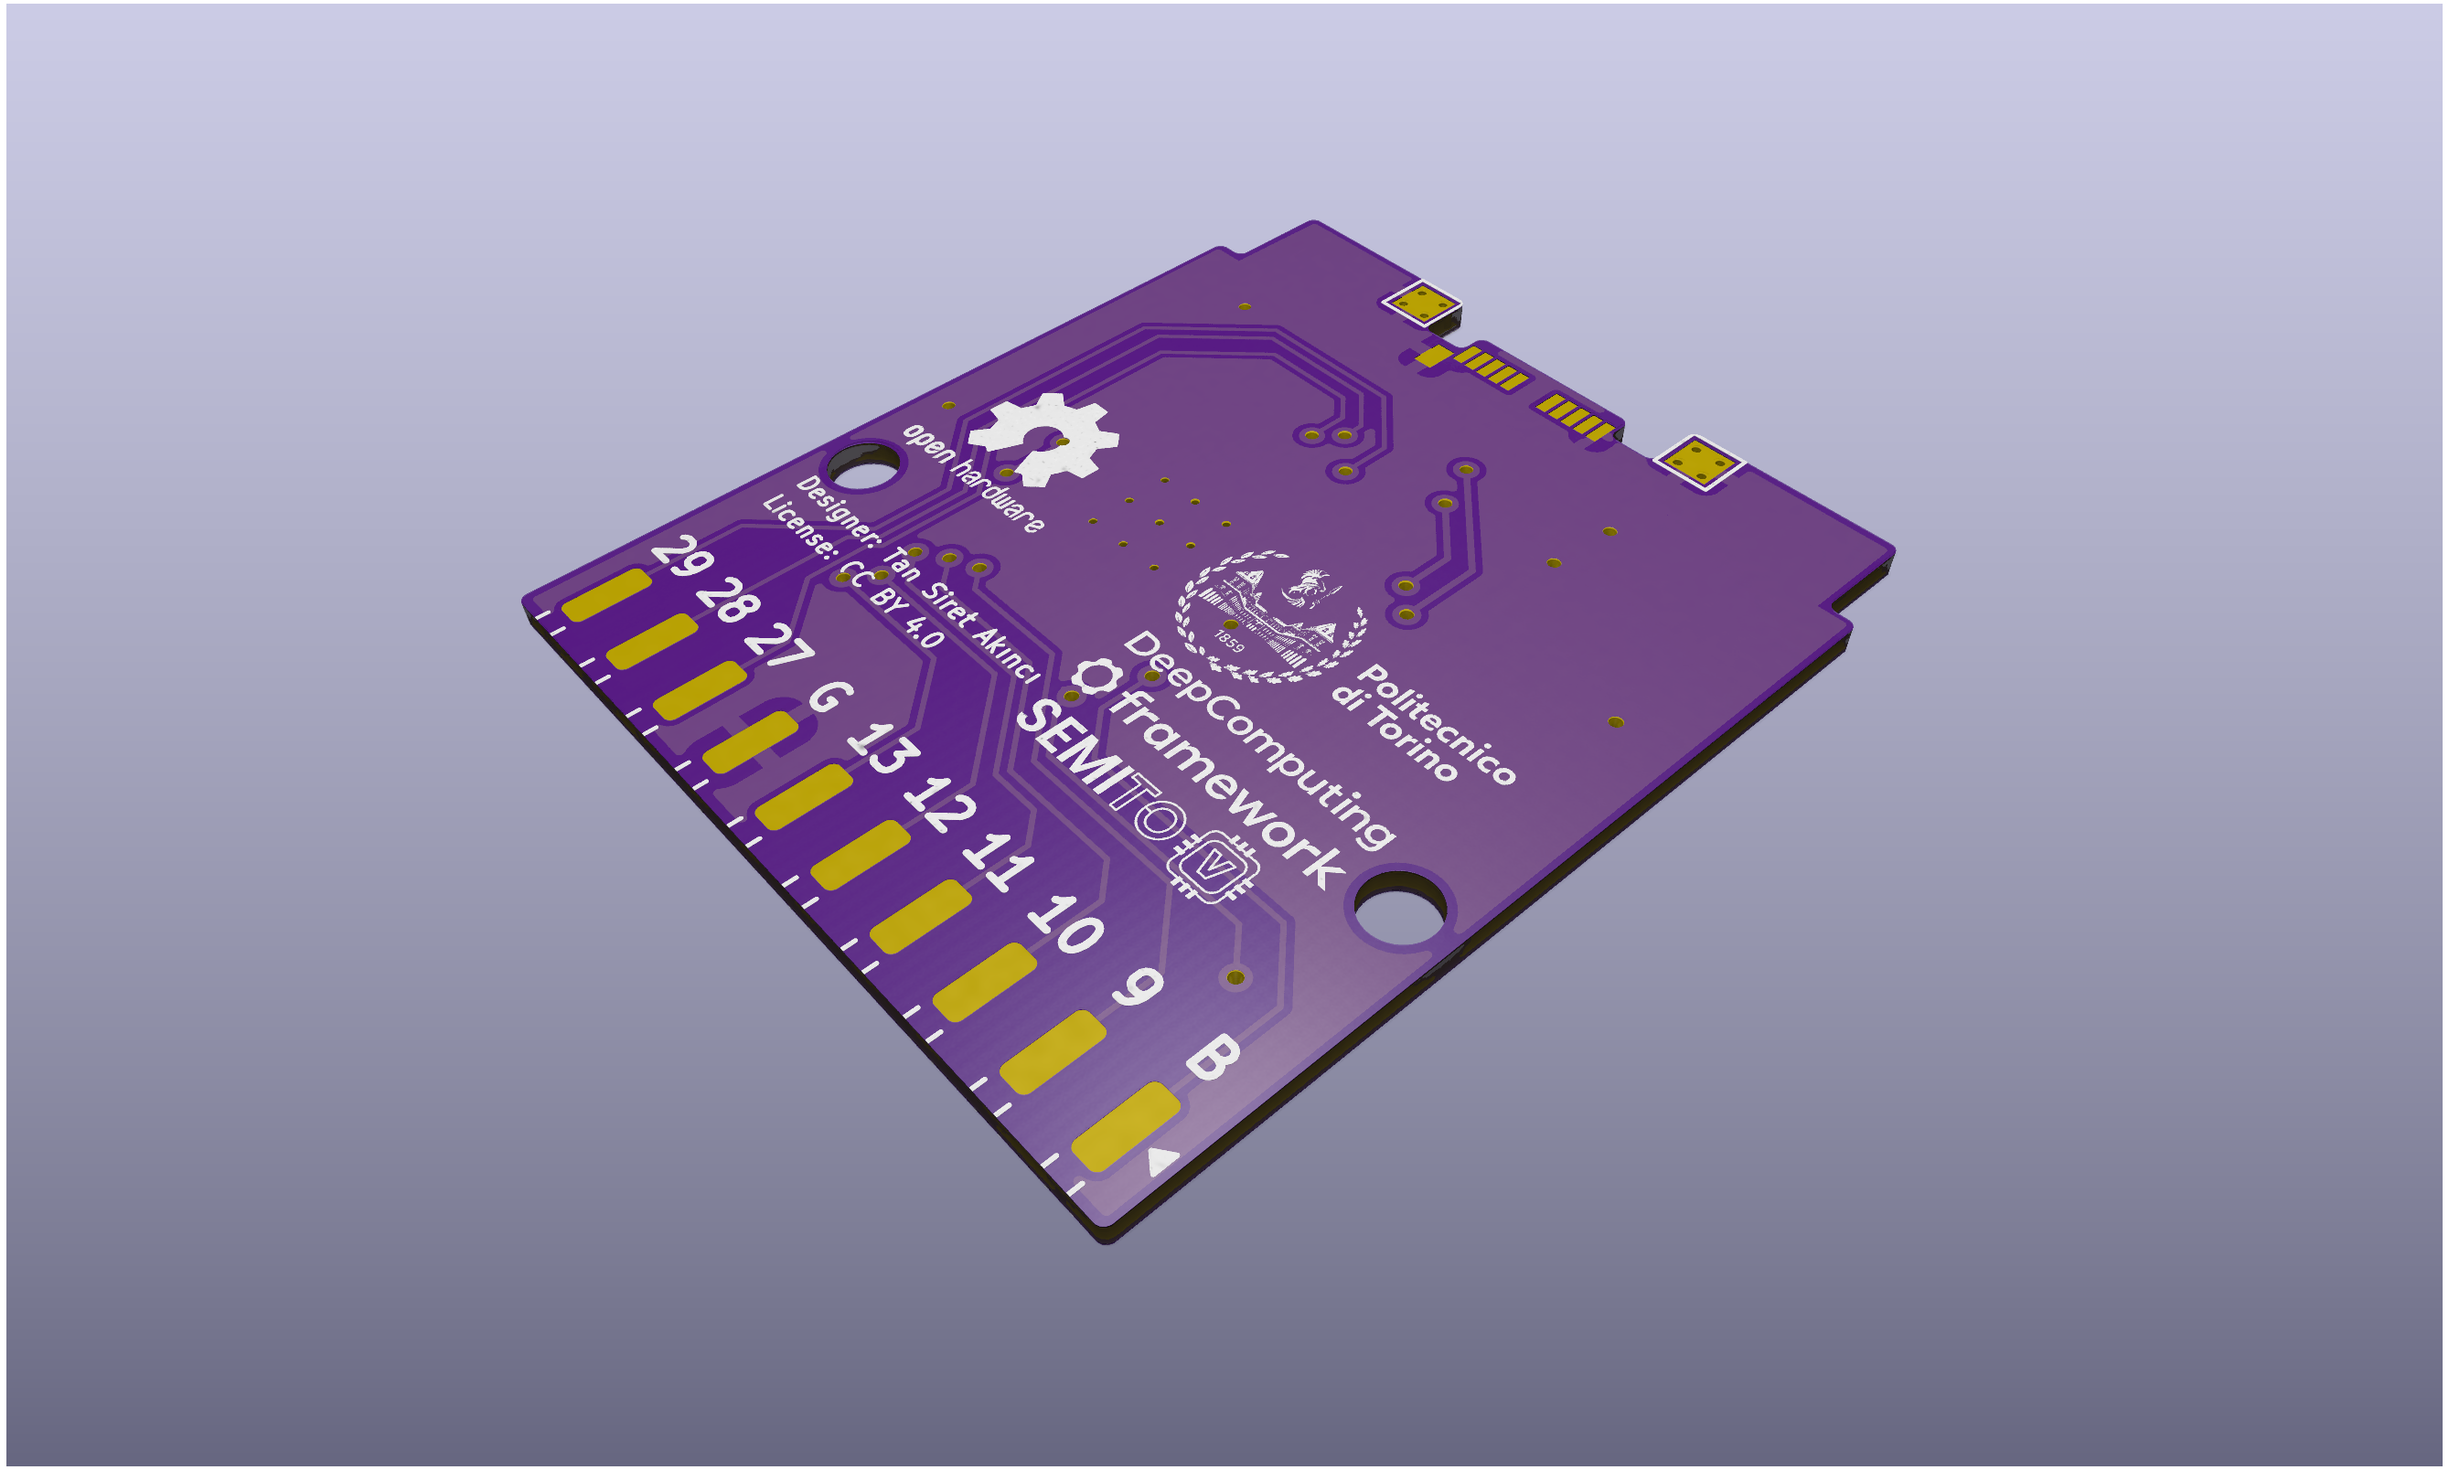
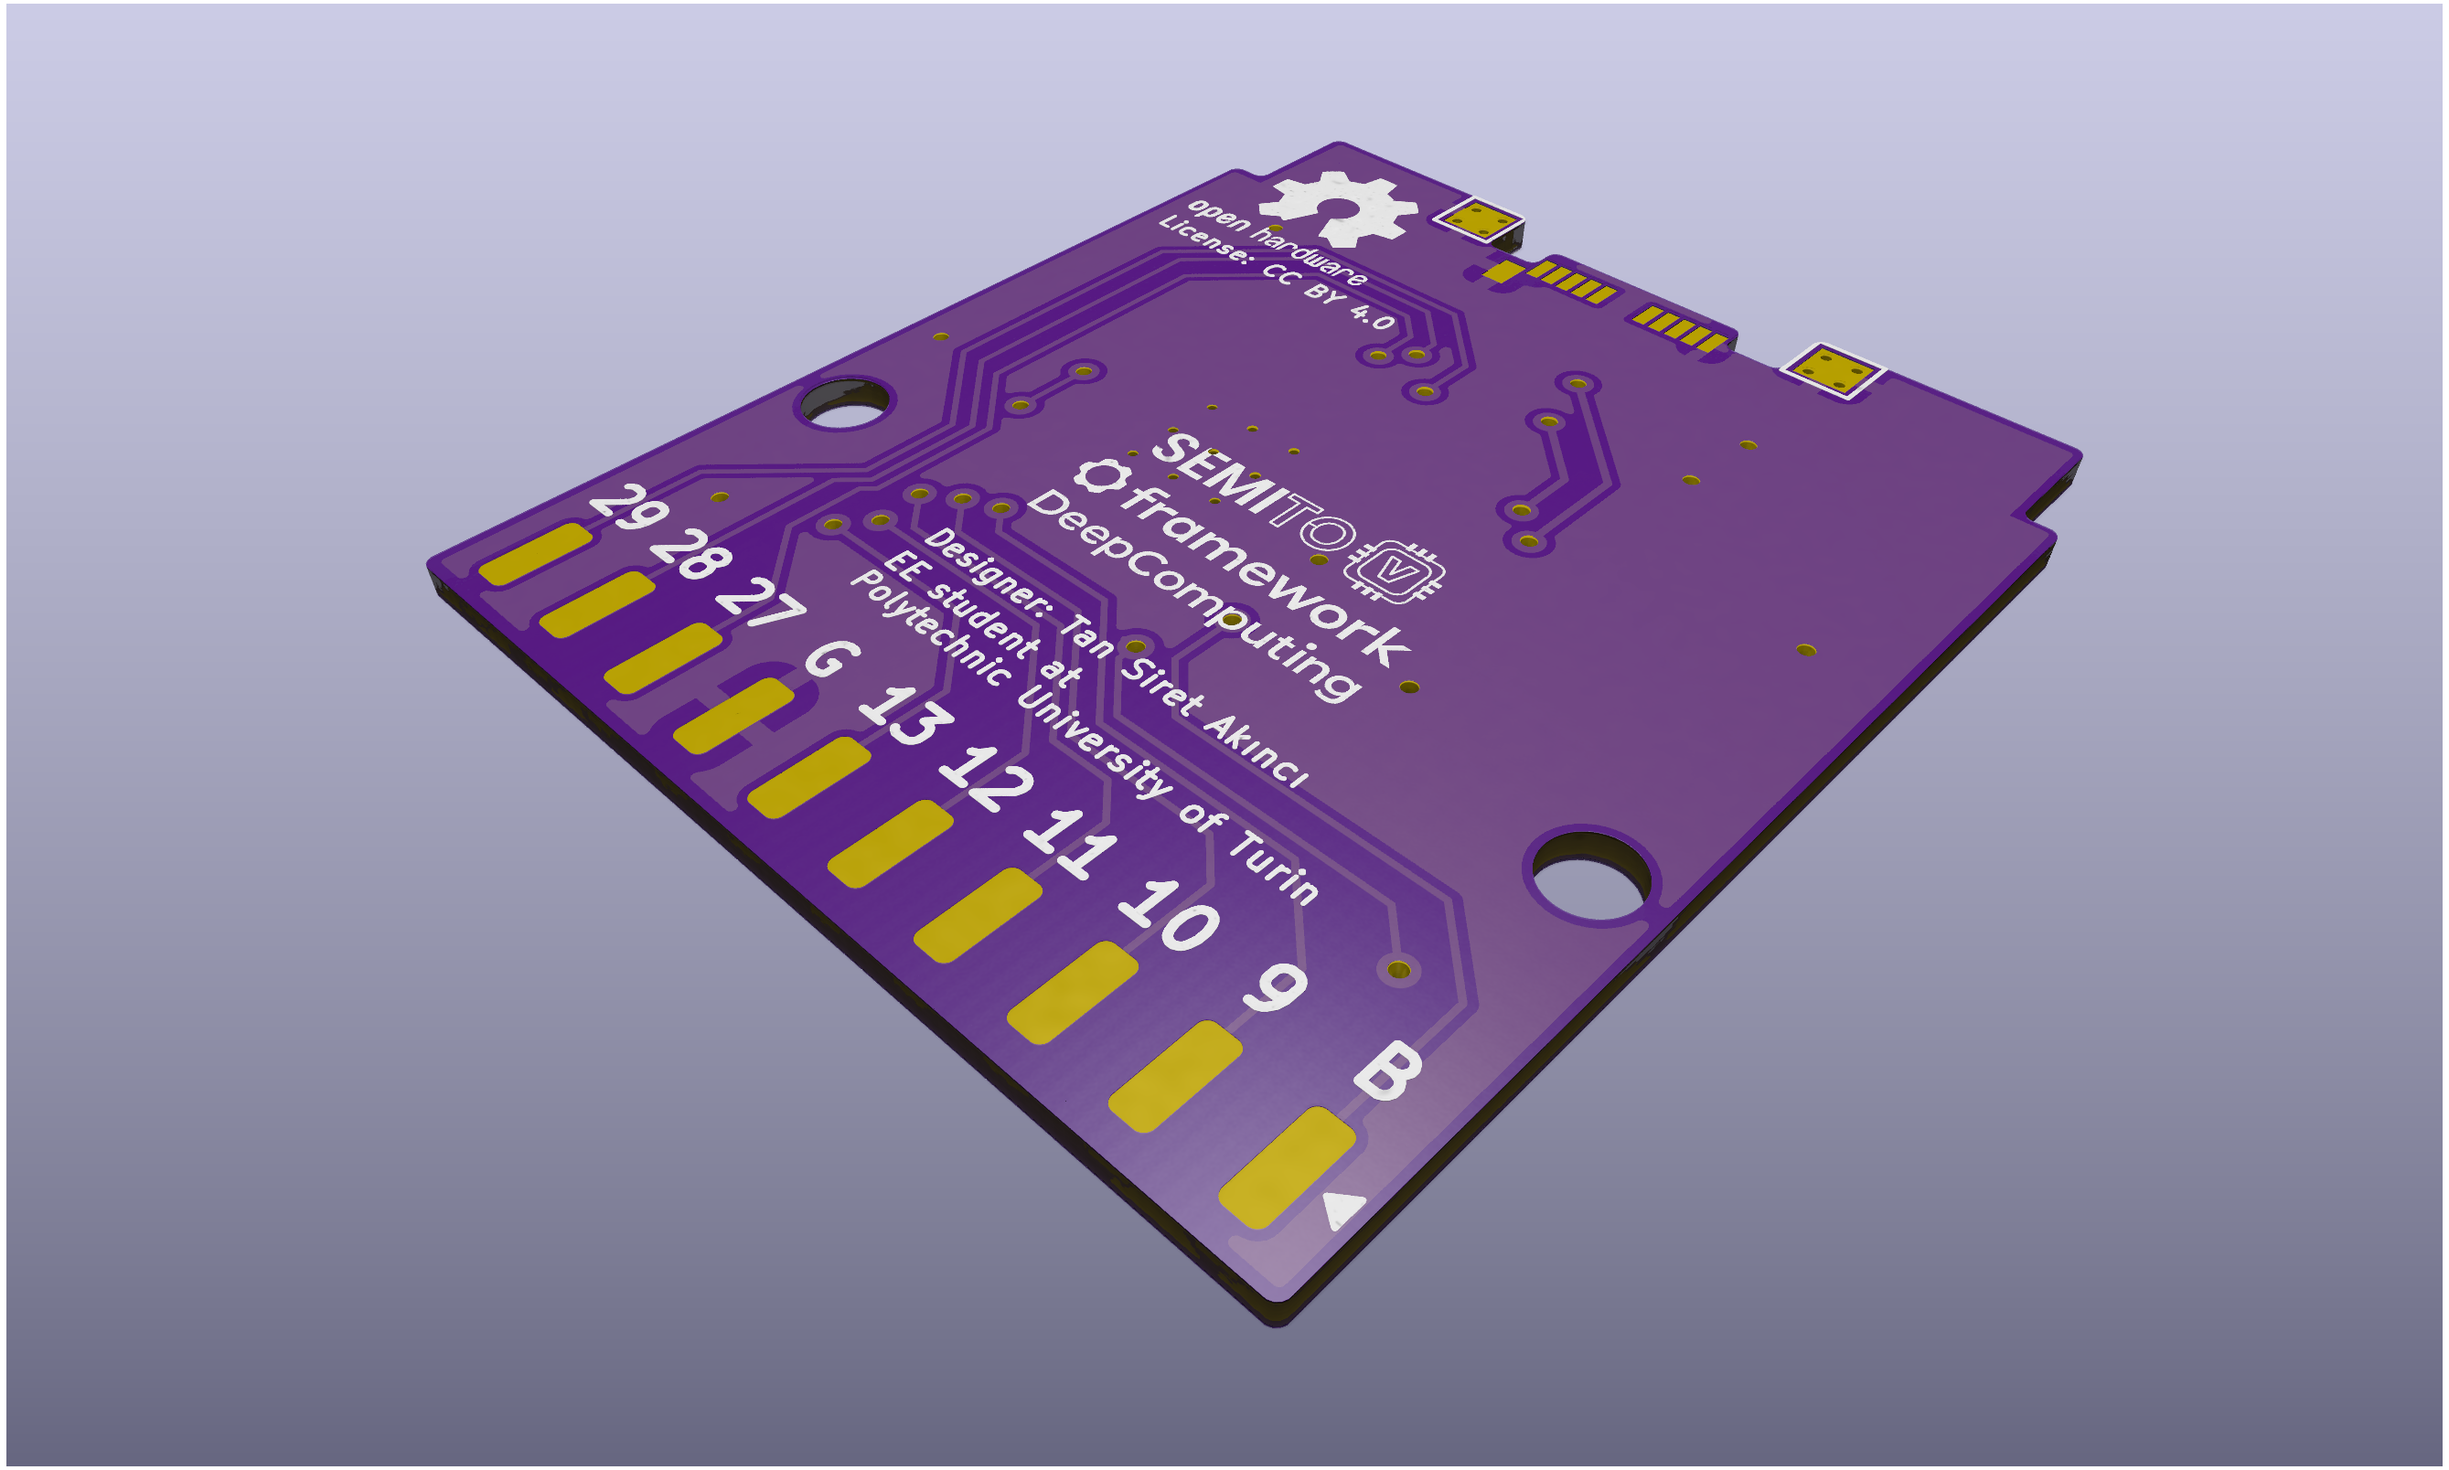
edit readme and re-render images

Changed region(s): [[0.155, 0.0933, 0.8678, 0.9017]]

diff --git a/README.md b/README.md
@@ -5,4 +5,4 @@ Expansion Card circuit based on RP2350 for Framework mainboards providing GPIO t
 # License
 Designed by: [Tan Siret Akıncı](https://github.com/tansiret).
 Schematics and footprint are licensed with [CC BY 4.0](LICENSE).
-Politecnico di Torino logo used in this project is © 2025 Politecnico di Torino. It is included here with permission. Please do not use the logo without prior consent from Politecnico di Torino.
+Politecnico di Torino name used in this project is © 2025 Politecnico di Torino. It is included here with permission. Please do not use the logo without prior consent from Politecnico di Torino.
